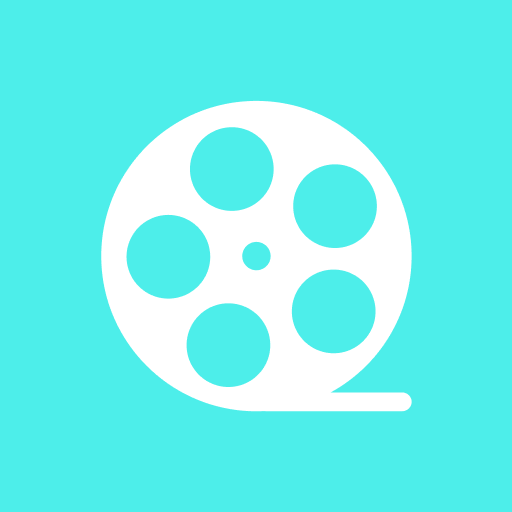
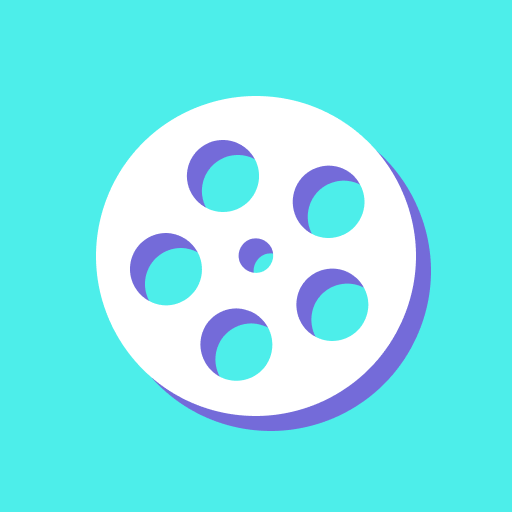
style

diff --git a/index.html b/index.html
@@ -44,12 +44,11 @@
 <!-- partial:index.partial.html -->
 <header class="fixed top-0 left-0 right-0 bg-white shadow-md py-4 px-6 flex justify-between items-center z-10 bg-[#F7F7F7]" >
   <h1 class="font-bold expanded flex items-center gap-2 md:gap-3">
-    <svg class="size-5 md:size-6 fill-[#746BD9]" width="100pt" height="100pt" version="1.1" viewBox="0 0 100 100" xmlns="http://www.w3.org/2000/svg">
-      <g>
-       <path d="m50.238 1.6367c-26.785 0-48.496 21.715-48.496 48.496 0 26.785 21.711 48.496 48.496 48.496 26.785 0 48.496-21.711 48.496-48.496 0-26.781-21.711-48.496-48.496-48.496zm24.562 19.82c7.2188 0 13.074 5.8516 13.074 13.074 0 7.2188-5.8516 13.074-13.074 13.074-7.2188 0-13.074-5.8516-13.074-13.074 0.003907-7.2188 5.8555-13.074 13.074-13.074zm-65.152 28.887c0-7.2188 5.8516-13.074 13.074-13.074 7.2188 0 13.074 5.8516 13.074 13.074 0 7.2188-5.8516 13.074-13.074 13.074-7.2188 0-13.074-5.8555-13.074-13.074zm31.84 40.695c-7.2188 0-13.074-5.8516-13.074-13.074 0-7.2188 5.8516-13.074 13.074-13.074 7.2188 0 13.074 5.8516 13.074 13.074 0 7.2188-5.8555 13.074-13.074 13.074zm8.75-36.477c-2.4453 0-4.4297-1.9805-4.4297-4.4297 0-2.4453 1.9805-4.4297 4.4297-4.4297 2.4453 0 4.4297 1.9805 4.4297 4.4297 0 2.4453-1.9844 4.4297-4.4297 4.4297zm-7.6953-18.555c-7.2188 0-13.074-5.8516-13.074-13.074 0-7.2188 5.8516-13.074 13.074-13.074 7.2188 0 13.074 5.8516 13.074 13.074 0 7.2188-5.8555 13.074-13.074 13.074zm31.84 44.488c-7.2188 0-13.074-5.8516-13.074-13.074 0-7.2188 5.8516-13.074 13.074-13.074 7.2188 0 13.074 5.8516 13.074 13.074-0.003906 7.2227-5.8555 13.074-13.074 13.074z"/>
-       <path d="m53.312 98.605h9.5117 18.777 13.395 0.79297c1.5977 0 2.9414-1.3047 2.9531-2.9102 0.011718-1.5898-1.3125-2.9531-2.9102-2.9531h-9.5117-18.777-13.395-0.79297c-1.5977 0-2.9414 1.3047-2.9531 2.9102-0.007813 1.5898 1.3125 2.9531 2.9102 2.9531z"/>
-      </g>
-     </svg>
+    <svg class="size-5 md:size-6 fill-[#746BD9] animate-spin" width="112" height="112" viewBox="0 0 112 112" xmlns="http://www.w3.org/2000/svg">
+      <path d="M55.7045 111.47C33.0378 111.47 12.9018 98.0003 4.23518 77.0683C-7.49402 48.6669 5.96958 16.0003 34.3712 4.2656C41.1733 1.46347 48.3712 0 55.7045 0C78.3712 0 98.5072 13.4693 107.174 34.4013C112.908 48.136 112.908 63.3333 107.174 77.068C101.439 90.8027 90.7725 101.469 77.0378 107.204C70.2357 110.001 63.0378 111.47 55.7045 111.47ZM48.9024 74.0003C44.1002 74.0003 39.569 76.8024 37.569 81.1981C34.6368 87.4637 37.3034 94.9328 43.569 98.0008C45.3034 98.8029 47.0378 99.1987 48.9024 99.1987C53.7045 99.1987 58.2357 96.3966 60.2357 92.0009C63.168 85.7353 60.5013 78.2662 54.2357 75.1982C52.5065 74.5367 50.7721 74.0003 48.9024 74.0003ZM82.3717 60.1363C78.2362 60.1363 74.3717 62.1363 71.9706 65.6051C68.1061 71.3395 69.5696 79.2037 75.1685 83.0744C77.304 84.5432 79.6997 85.34 82.2362 85.34C86.3717 85.34 90.2362 83.34 92.6373 79.8712C94.5018 77.0691 95.304 73.7357 94.6373 70.4024C93.9706 67.0691 92.1061 64.2669 89.4394 62.4024C87.4394 60.9336 84.903 60.1363 82.3717 60.1363ZM24.3717 47.7352C17.5696 47.7352 11.9706 53.204 11.8405 60.0008C11.7051 66.9331 17.1738 72.6675 24.1061 72.9331H24.3717C31.1739 72.9331 36.7728 67.4643 36.9029 60.6675C37.0384 53.7352 31.5696 48.0008 24.6373 47.7352H24.3717ZM55.705 49.5997C54.903 49.5997 54.1061 49.7351 53.4394 50.0008C50.3717 51.3341 48.9082 54.8029 50.1061 57.8653C51.0384 60.1309 53.304 61.5997 55.705 61.5997C56.5071 61.5997 57.304 61.4643 57.9706 61.1987C61.0384 59.8653 62.5018 56.3965 61.304 53.3341C60.3717 51.0685 58.1061 49.5997 55.705 49.5997ZM81.0384 24.2664C78.7728 24.2664 76.5072 24.9331 74.5072 26.1309C68.6426 29.7299 66.7728 37.4643 70.3717 43.4643C72.6373 47.1987 76.6373 49.4643 81.0384 49.4643C83.304 49.4643 85.5696 48.7976 87.5696 47.5997C90.3717 45.8653 92.3717 43.0685 93.1685 39.8653C93.9706 36.6675 93.4341 33.1987 91.6997 30.3965C89.5694 26.5372 85.4394 24.2664 81.0384 24.2664ZM44.2357 15.3341C42.6368 15.3341 40.9024 15.5998 39.4336 16.2664C33.0325 18.9331 29.9648 26.2664 32.6314 32.6678C34.6314 37.3344 39.1626 40.4022 44.2304 40.4022C45.8293 40.4022 47.4282 40.1365 49.0325 39.4699C55.4336 36.8032 58.5013 29.4699 55.8346 23.0685C53.8398 18.4019 49.3034 15.3341 44.2357 15.3341Z"/>
+      </svg>
+      
+    
      <span class="text-base md:text-lg expanded text-[#746BD9]">Rewatch Party</span></h1>
   <div>
     <a class="underline underline-offset-2 decoration-2 decoration-[#4deeea] font-medium text-[#746BD9]" href="#" onclick="scroller();">This Week</a>
